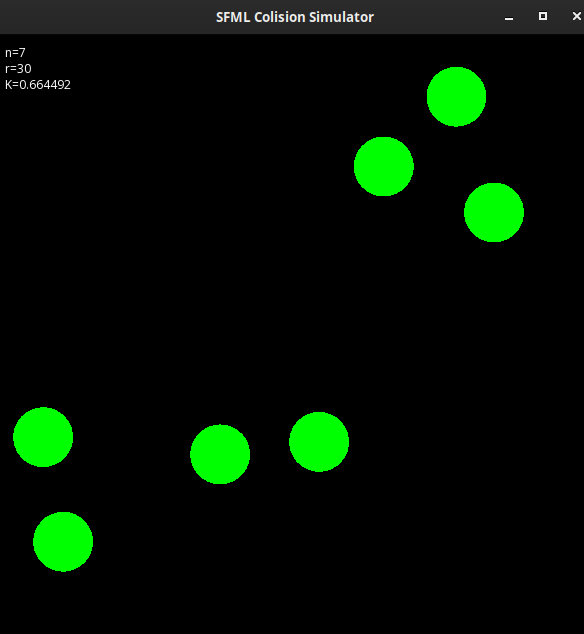
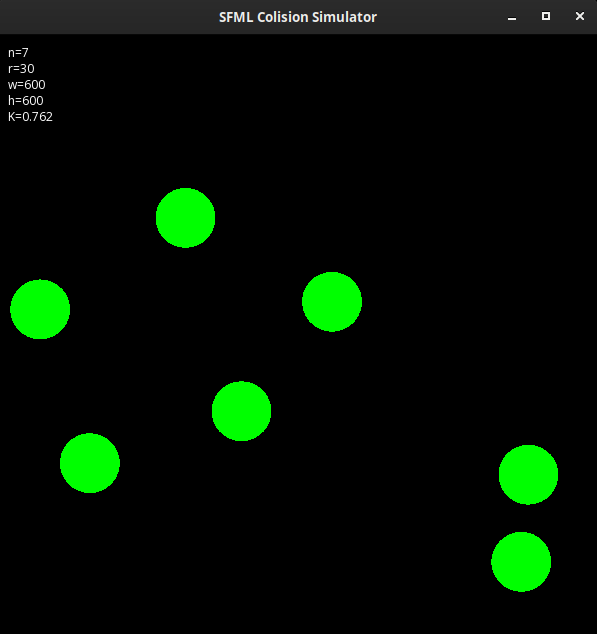
add more inputs [w default vaues]; control float precision on print

diff --git a/src/Simulator.cpp b/src/Simulator.cpp
@@ -1,12 +1,12 @@
 #include "Simulator.h"
 
 #define MAX_TRIES 100000
-#define WIN_SIZE 600
 
-
-Simulator::Simulator(int num_balls):
+Simulator::Simulator(int num_balls, int r, int win_w, int win_h):
     balls(),
-    num_balls(num_balls)
+    num_balls(num_balls),
+    win_h(win_h),
+    win_w(win_w)
 {
     std::random_device rd;
     std::mt19937 gen(rd());
@@ -17,16 +17,17 @@ Simulator::Simulator(int num_balls):
            num_tries < MAX_TRIES)
     {
         // Generate random values
-        std::uniform_int_distribution<int> dist_pos(100, WIN_SIZE-100);
+        std::uniform_int_distribution<int> dist_pos_x(2*r + 1, win_w - 2*r - 1);
+        std::uniform_int_distribution<int> dist_pos_y(2*r + 1, win_h - 2*r - 1);
         std::uniform_real_distribution<float> dist_v(0.1f, 0.3f);
 
-        int x = dist_pos(gen);
-        int y = dist_pos(gen);
+        int x = dist_pos_x(gen);
+        int y = dist_pos_y(gen);
 
         float vx = dist_v(gen);
         float vy = dist_v(gen);
 
-        Ball *p_all = new Ball(x, y, vx, vy);
+        Ball *p_all = new Ball(x, y, vx, vy, r);
 
         if (p_all)
         {
@@ -91,13 +92,13 @@ bool Simulator::colided_ball(Ball *p_b1, Ball *p_b2)
 
 bool Simulator::colided_wall_v(Ball *b)
 {
-    return (b->getX() > (WIN_SIZE - 2*b->getR()) ||
+    return (b->getX() > (win_w - 2*b->getR()) ||
             b->getX() < 0);
 }
 
 bool Simulator::colided_wall_h(Ball *b)
 {
-    return (b->getY() > (WIN_SIZE - 2*b->getR()) ||
+    return (b->getY() > (win_h - 2*b->getR()) ||
             b->getY() < 0);
 }
 
@@ -106,10 +107,10 @@ void Simulator::update_colision_vel(Ball *p_b1, Ball *p_b2)
     float dx = p_b1->getX() - p_b2->getX();
     float dy = p_b1->getY() - p_b2->getY();
 
-    float m = dx*dx + dy*dy;
+    float div = dx*dx + dy*dy;
 
-    float c1 = (p_b1->getVX()*dx + p_b1->getVY()*dy) / m;
-    float c2 = (p_b2->getVX()*dx + p_b2->getVY()*dy) / m;
+    float c1 = (p_b1->getVX()*dx + p_b1->getVY()*dy) / div;
+    float c2 = (p_b2->getVX()*dx + p_b2->getVY()*dy) / div;
 
     // Vector projetion on the colision direction
     float proj_vx_1 = c1 * dx;
@@ -133,9 +134,10 @@ void Simulator::execute()
 {
     // Window
     sf::RenderWindow window(
-       sf::VideoMode(WIN_SIZE, WIN_SIZE),
+       sf::VideoMode(win_w, win_h),
        "SFML Colision Simulator"
     );
+
 
     // Text Font
     sf::Font font;
@@ -217,10 +219,12 @@ void Simulator::execute()
         std::ostringstream ss;
         ss << "n=" << num_balls << std::endl
            << "r=" << balls[0]->getR() << std::endl
-           << "K=" << k;
+           << "w=" << win_w << std::endl
+           << "h=" << win_h << std::endl
+           << "K=" << std::setprecision(4) << k << std::endl;
+
         text.setString(ss.str());
 	    window.draw(text);
-
 
 		window.display();
     }

diff --git a/src/main.cpp b/src/main.cpp
@@ -1,14 +1,41 @@
 #include "Simulator.h"
 
 
+void clearCinBuffer()
+{
+    std::cin.clear();
+    std::cin.ignore(std::numeric_limits<std::streamsize>::max(), '\n');
+}
+
+void readInput(int *p, int d, const std::string s)
+{
+    std::cout << s << " [" << d << "]: ";
+    if (std::cin.peek() == '\n')
+        *p = d;
+    else if (!(std::cin >> *p))
+        std::cout << "Invalid input.\n";
+
+    clearCinBuffer();
+}
+
 int main()
 {
     // Input
-    int num_balls = 0;
-    std::cout << "Enter the number of balls: ";
-    std::cin >> num_balls;
 
-    Simulator simulator(num_balls);
+    int num_balls = 0;
+    readInput(&num_balls, 3, "Number of balls");
+
+    int r = 0;
+    readInput(&r, 30, "Ball radius");
+
+    int win_w = 0;
+    readInput(&win_w, 600, "Window width");
+
+    int win_h = 0;
+    readInput(&win_h, 600, "Window height");
+
+
+    Simulator simulator(num_balls, r, win_h, win_w);
 
     if (simulator.getNumBalls() > 0)
     {

diff --git a/src/Simulator.h b/src/Simulator.h
@@ -3,6 +3,7 @@
 #include "Ball.h"
 #include <iostream>
 #include <sstream>
+#include <iomanip>
 #include <random>
 
 
@@ -11,9 +12,11 @@ class Simulator
 private:
     std::vector<Ball*> balls;
     int num_balls;
+    int win_w;
+    int win_h;
 
 public:
-    Simulator(int num_balls);
+    Simulator(int num_balls, int r, int win_w, int win_h);
     ~Simulator();
 
     int getNumBalls();

diff --git a/src/Ball.h b/src/Ball.h
@@ -16,7 +16,7 @@ private:
 public:
     Ball(float x, float y,
          float vx, float vy,
-         float r = 30,
+         float,
          sf::Color = sf::Color::Green
     );
     ~Ball();
